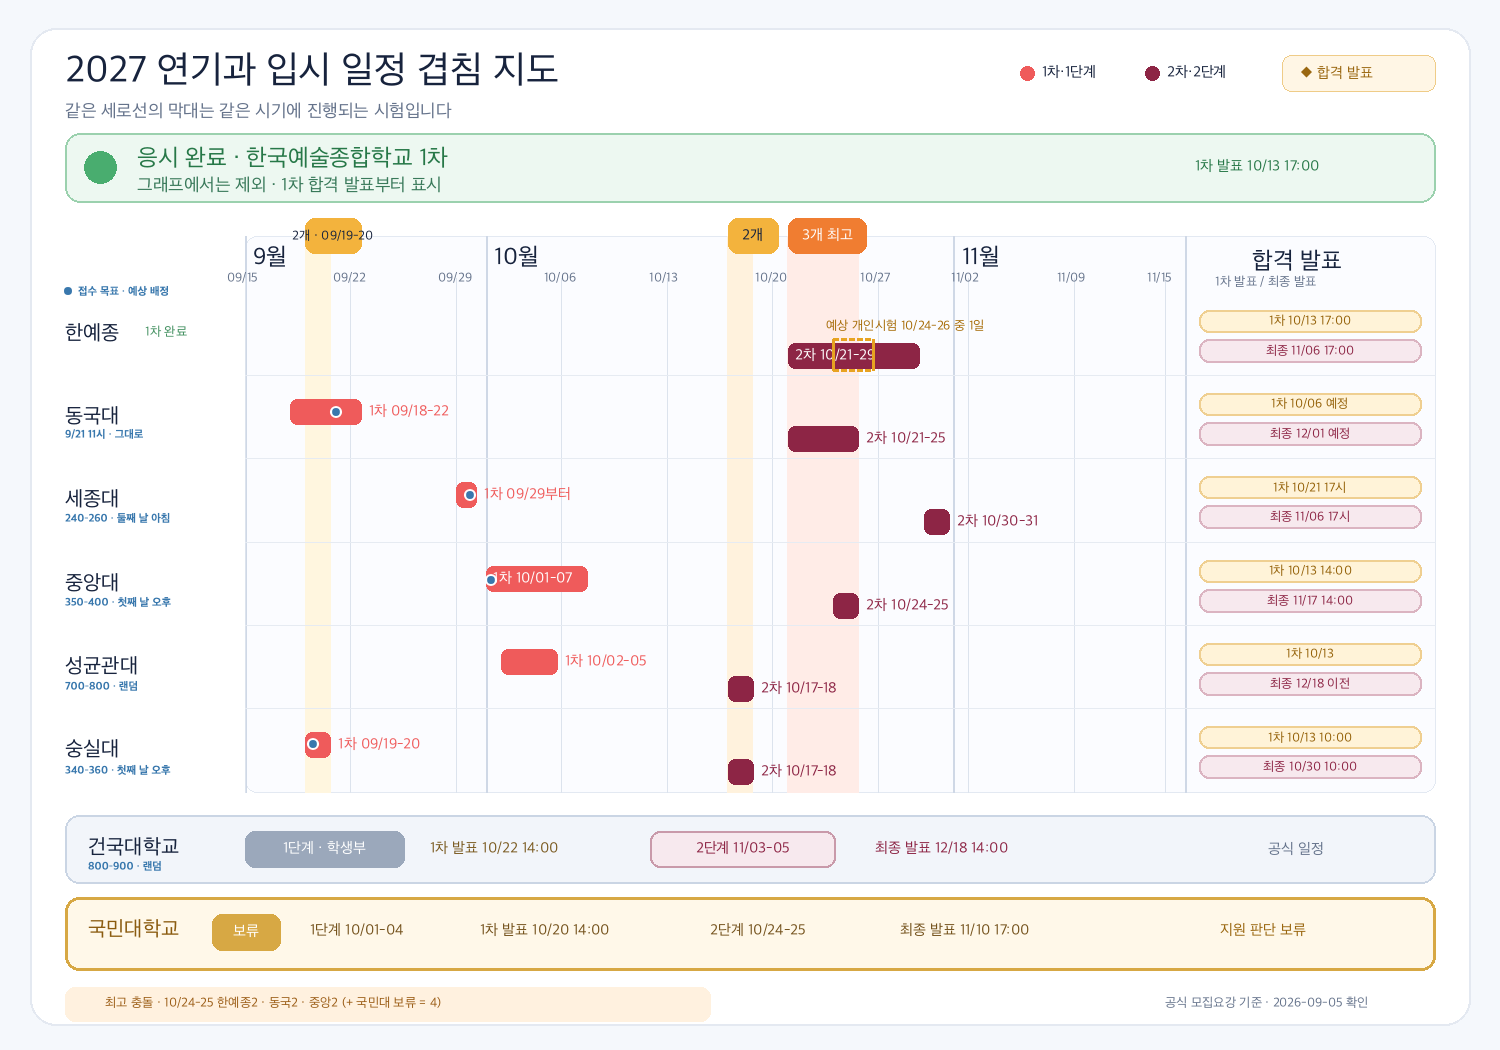
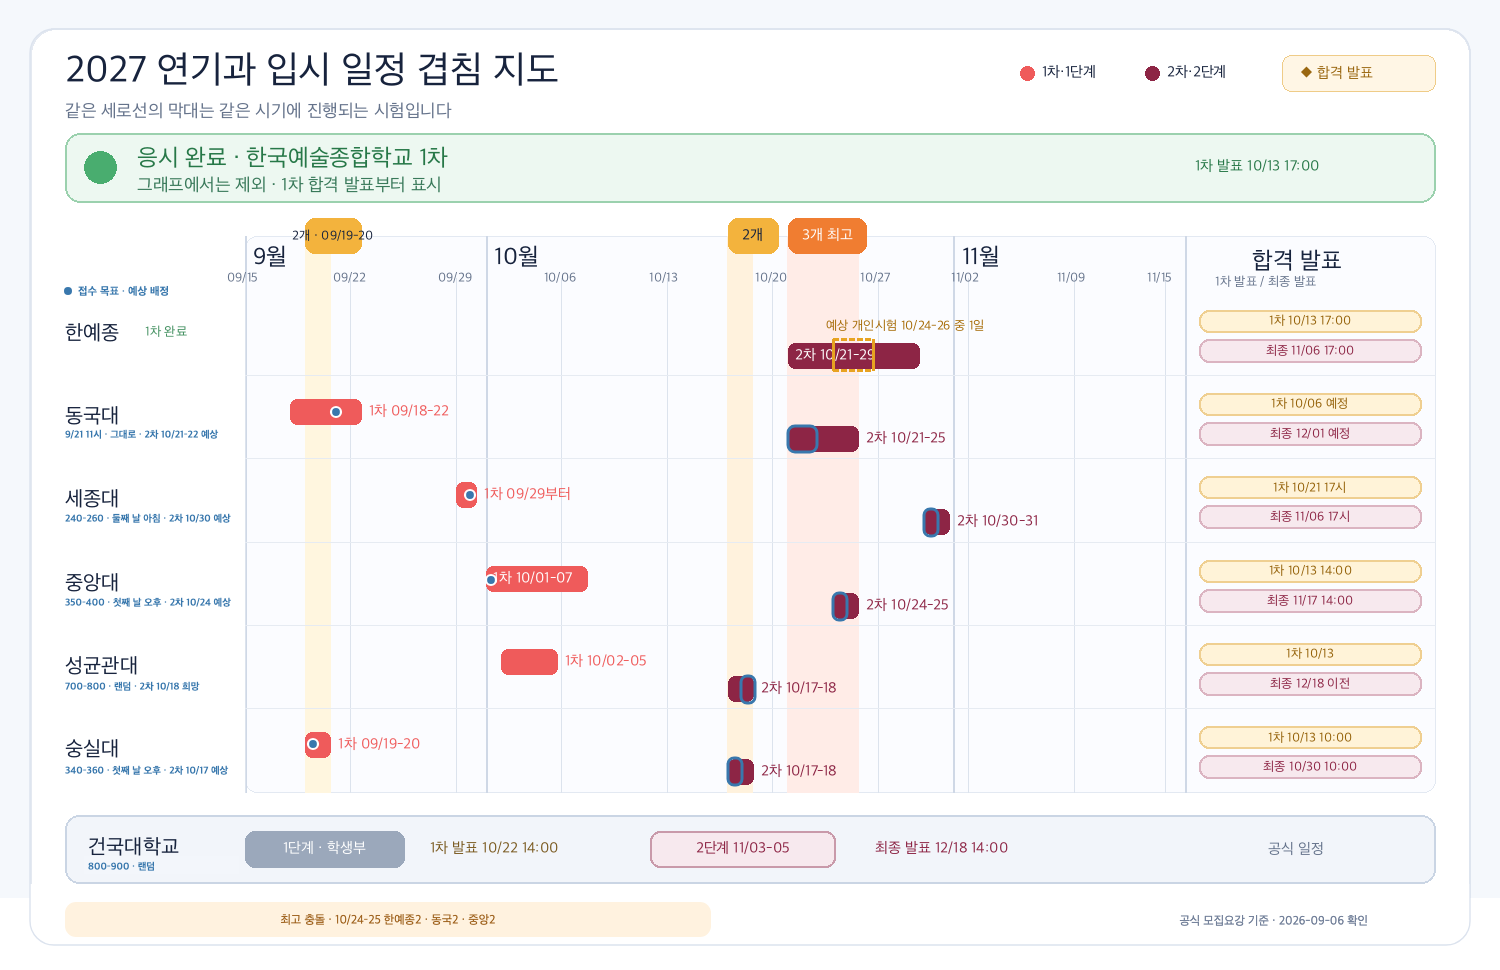
vault backup: 2026-09-06 14:36:14

diff --git a/정리/입시/2027 연기과 시험 일정 그래프.md b/정리/입시/2027 연기과 시험 일정 그래프.md
@@ -40,17 +40,20 @@ gantt
     세종 2단계                    :done, sejong2, 2026-10-30, 2026-11-01
     건국 2단계                    :done, konkuk2, 2026-11-03, 2026-11-06
 
-    section 개인 접수 목표·예상 배정
-    동국 9/21 11시 · 그대로        :milestone, target_dongguk, 2026-09-21, 0d
-    숭실 340–360 · 첫째 날 오후    :milestone, target_ssu, 2026-09-19, 0d
-    세종 240–260 · 둘째 날 아침    :milestone, target_sejong, 2026-09-30, 0d
-    중앙 350–400 · 첫째 날 오후    :milestone, target_cau, 2026-10-01, 0d
-    성균관 700–800 · 랜덤          :active, target_skku, 2026-10-02, 2026-10-06
-    건국 800–900 · 랜덤            :active, target_konkuk, 2026-11-03, 2026-11-06
+    section 개인 예상 1차·1단계
+    동국 9/21 · 11시 그대로         :milestone, target_dongguk1, 2026-09-21, 0d
+    숭실 9/19 · 340–360 첫날 오후   :milestone, target_ssu1, 2026-09-19, 0d
+    세종 9/30 · 240–260 둘째 날 아침 :milestone, target_sejong1, 2026-09-30, 0d
+    중앙 10/01 · 350–400 첫날 오후  :milestone, target_cau1, 2026-10-01, 0d
+    성균관 700–800 · 랜덤           :active, target_skku1, 2026-10-02, 2026-10-06
 
-    section 국민대 · 보류
-    국민대 1단계                  :crit, kookmin1, 2026-10-01, 2026-10-05
-    국민대 2단계                  :done, kookmin2, 2026-10-24, 2026-10-26
+    section 개인 예상 2차·2단계
+    숭실 10/17 예상                :milestone, target_ssu2, 2026-10-17, 0d
+    성균관 10/18 희망              :milestone, target_skku2, 2026-10-18, 0d
+    동국 10/21–22 예상             :active, target_dongguk2, 2026-10-21, 2026-10-23
+    중앙 10/24 예상                :milestone, target_cau2, 2026-10-24, 0d
+    세종 10/30 예상                :milestone, target_sejong2, 2026-10-30, 0d
+    건국 11/03–05 · 800–900 랜덤    :active, target_konkuk2, 2026-11-03, 2026-11-06
 ```
 
 > [!danger] 가장 붐비는 구간: 10월 21일~25일
